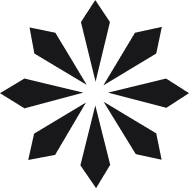
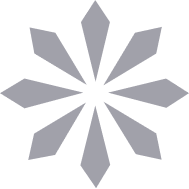
feat: Adding Dark Mode

diff --git a/src/app/assets/components/Header/index.tsx b/src/app/assets/components/Header/index.tsx
@@ -9,9 +9,11 @@ import Link from "next/link";
 export function Header() {
 
   return (
-    <div className="bg-white flex justify-center items-center px-8 border-b-2 border-zinc-500 shadow-sm w-screen">
+    <div className="flex w-screen items-center justify-center border-b-2 border-zinc-500 bg-white px-8 shadow-sm dark:bg-zinc-900 dark:text-zinc-200">
       <div></div>
-      <Link href="/"><Logo /></Link>
+      <Link href="/">
+        <Logo />
+      </Link>
       <Dialog.Root>
         <Dialog.Trigger asChild>
           <div className="absolute right-4">
@@ -21,23 +23,43 @@ export function Header() {
           </div>
         </Dialog.Trigger>
         <Dialog.Portal>
-          <Dialog.Overlay className="bg-zinc-900/40 data-[state=open]:animate-overlayShow fixed inset-0">
-            <Dialog.Content className="data-[state=open]:animate-contentShow fixed top-1/2 left-1/2 -translate-x-1/2 -translate-y-1/2 w-3/4 bg-zinc-200 border border-zinc-900 p-4  rounded-lg">
-              <Dialog.Title className="p-2">Selecione para onde quer ir: </Dialog.Title>
+          <Dialog.Overlay className="data-[state=open]:animate-overlayShow fixed inset-0 bg-zinc-900/40 dark:bg-zinc-100/5">
+            <Dialog.Content className="data-[state=open]:animate-contentShow fixed left-1/2 top-1/2 w-3/4 -translate-x-1/2 -translate-y-1/2 rounded-lg border border-zinc-900 bg-zinc-200 p-4 dark:border-zinc-200 dark:bg-zinc-800 dark:text-zinc-200">
+              <Dialog.Title className="p-2">
+                Selecione para onde quer ir:{" "}
+              </Dialog.Title>
               <Division />
-              <div className="flex flex-col mt-1">
+              <div className="mt-1 flex flex-col">
                 <Dialog.Close asChild>
-                  <Link href="/" className="p-2 hover:bg-zinc-400/20 rounded-lg">Home</Link>
+                  <Link
+                    href="/"
+                    className="rounded-lg p-2 hover:bg-zinc-400/20"
+                  >
+                    Home
+                  </Link>
                 </Dialog.Close>
                 <Dialog.Close asChild>
-                  <Link href="/Portfolio" className="p-2 hover:bg-zinc-400/20 rounded-lg">Portfolio</Link>
+                  <Link
+                    href="/Portfolio"
+                    className="rounded-lg p-2 hover:bg-zinc-400/20"
+                  >
+                    Portfolio
+                  </Link>
                 </Dialog.Close>
                 <Dialog.Close asChild>
-                  <Link href="/Blog" className="p-2 hover:bg-zinc-400/20 rounded-lg">Blog</Link>
+                  <Link
+                    href="/Blog"
+                    className="rounded-lg p-2 hover:bg-zinc-400/20"
+                  >
+                    Blog
+                  </Link>
                 </Dialog.Close>
               </div>
               <Dialog.Close asChild>
-                <button className="text-zinc-500 absolute top-3 right-3 inline-flex h-6 w-6 items-center justify-center rounded-full" aria-label="Close">
+                <button
+                  className="absolute right-3 top-3 inline-flex h-6 w-6 items-center justify-center rounded-full text-zinc-500"
+                  aria-label="Close"
+                >
                   X
                 </button>
               </Dialog.Close>

diff --git a/src/app/assets/components/Button/Icon-Button.tsx b/src/app/assets/components/Button/Icon-Button.tsx
@@ -4,17 +4,20 @@ import { ComponentProps, ReactNode } from 'react'
 
 const buttonSlots = tv({
   slots: {
-    button: "flex items-center justify-center rounded-full group bg-none w-10 h-10 border-2",
+    button:
+      "flex items-center justify-center rounded-full group bg-none w-10 h-10 border-2",
     icon: "flex items-center justify-center rounded-full p-1",
     subtitleText: "font-rajdhani font-medium",
   },
 
-  variants:{
+  variants: {
     variant: {
       normal: {
-        button: "border-zinc-400 group-hover:border-zinc-500 text-zinc-600 group-hover:text-zinc-200 group-data-[state=active]:border-blue-550 group-data-[state=active]:group-hover:border-blue-400 group-data-[state=active]:text-zinc-200",
-        icon: "bg-zinc-400 group-hover:bg-zinc-500 data-[state=active]:text-blue-550 group-data-[state=active]:bg-blue-550 group-data-[state=active]:group-hover:bg-blue-400",
-        subtitleText: "text-zinc-500 group-hover:text-zinc-600 group-data-[state=active]:text-blue-550 group-data-[state=active]:group-hove:text-blue-400",
+        button:
+          "border-zinc-400 group-hover:border-zinc-500 text-zinc-600 group-hover:text-zinc-200 group-data-[state=active]:border-blue-550 group-data-[state=active]:group-hover:border-blue-400 group-data-[state=active]:text-zinc-200  dark:border-zinc-200 dark:group-data-[state=active]:border-blue-500 dark:group-data-[state=active]:group-hover:border-blue-400",
+        icon: "bg-zinc-400 group-hover:bg-zinc-500 data-[state=active]:text-blue-550 group-data-[state=active]:bg-blue-550 group-data-[state=active]:group-hover:bg-blue-400 dark:bg-zinc-200 dark:data-[state=active]:text-blue-400 dark:group-data-[state=active]:bg-blue-500 dark:group-data-[state=active]:group-hover:bg-blue-400",
+        subtitleText:
+          "text-zinc-500 group-hover:text-zinc-600 group-data-[state=active]:text-blue-550 group-data-[state=active]:group-hover:text-blue-400 dark:text-zinc-200 dark:group-hover:text-zinc-400 dark:group-data-[state=active]:text-blue-400",
       },
       active: {
         button: "border-blue-550 group-hover:border-blue-400 text-zinc-200 ",
@@ -31,8 +34,8 @@ const buttonSlots = tv({
     defaultVariants: {
       variant: "normal",
     },
-  }
-})
+  },
+});
 
 type ButtonProps = ComponentProps<"button"> & VariantProps<typeof buttonSlots> & {
   children: ReactNode;

diff --git a/src/app/assets/Logo.tsx b/src/app/assets/Logo.tsx
@@ -6,11 +6,9 @@ export function Logo() {
       viewBox="0 0 56 56"
       fill="none"
       xmlns="http://www.w3.org/2000/svg"
+      className="fill-zinc-400 dark:fill-zinc-200"
     >
-      <path
-        d="M16.406 10.35L8.755 8.768l1.42 7.762 15.538 9.346-9.307-15.524zM28.237.608l-4.26 6.574 4.338 17.743 4.26-17.743L28.237.608zM47.955 8.608l-7.966 1.743-9.386 15.683 15.696-9.505 1.656-7.92zM32.023 28.172l17.194-4.198L56 28.331l-6.704 4.356-17.273-4.514zM30.682 30.866l9.543 15.603 7.651 1.664L46.3 40.29l-15.617-9.425zM28.237 31.974L23.82 49.796l4.653 6.812 4.18-6.97-4.416-17.663zM25.476 31.103l-15.38 9.267-1.735 7.842 7.966-1.505 9.15-15.604zM24.687 28.172l-17.43-4.198L0 28.331l7.256 4.515 17.431-4.673z"
-        fill="#A1A1AA"
-      />
+      <path d="M16.406 10.35L8.755 8.768l1.42 7.762 15.538 9.346-9.307-15.524zM28.237.608l-4.26 6.574 4.338 17.743 4.26-17.743L28.237.608zM47.955 8.608l-7.966 1.743-9.386 15.683 15.696-9.505 1.656-7.92zM32.023 28.172l17.194-4.198L56 28.331l-6.704 4.356-17.273-4.514zM30.682 30.866l9.543 15.603 7.651 1.664L46.3 40.29l-15.617-9.425zM28.237 31.974L23.82 49.796l4.653 6.812 4.18-6.97-4.416-17.663zM25.476 31.103l-15.38 9.267-1.735 7.842 7.966-1.505 9.15-15.604zM24.687 28.172l-17.43-4.198L0 28.331l7.256 4.515 17.431-4.673z" />
     </svg>
   );
 }

diff --git a/src/app/assets/components/Button/Text-Button.tsx b/src/app/assets/components/Button/Text-Button.tsx
@@ -5,10 +5,10 @@ const buttonSlots = tv({
   base: "flex rounded-full border-2 p-1.5 gap-2 basis-20 grow justify-center",
   variants: {
     color: {
-      zinc: "border-zinc-500 text-zinc-500 hover:bg-zinc-500 hover:text-zinc-200",
-      pink: "border-pink-650  text-pink-650 hover:bg-pink-500 hover:text-zinc-200",
+      zinc: "border-zinc-500 text-zinc-500 hover:bg-zinc-500 hover:text-zinc-200 dark:border-zinc-400 dark:text-zinc-400 dark:hover:border-zinc-200 dark:hover:text-zinc-600 dark:hover:bg-zinc-200",
+      pink: "border-pink-650  text-pink-650 hover:bg-pink-500 hover:text-zinc-200 dark:border-pink-500 dark:text-pink-500 dark:hover:bg-pink-500",
       blue: "border-blue-550 text-blue-550 hover:bg-blue-550 hover:text-zinc-200",
-      dark: "border-zinc-900 hover:bg-zinc-900 hover:text-zinc-200",
+      dark: "border-zinc-900 hover:bg-zinc-900 hover:text-zinc-200 dark:border-zinc-200 dark:hover:bg-zinc-200 dark:hover:text-zinc-900",
     },
   },
   defaultVariants: {

diff --git a/src/app/page.tsx b/src/app/page.tsx
@@ -114,7 +114,7 @@ export default function Home() {
               );
             })}
           </Tabs.List>
-          <div className="w-screen gap-8 bg-zinc-400 px-8 py-1">
+          <div className="w-screen gap-8 bg-zinc-400 px-8 py-1 dark:bg-zinc-900">
             {Knowledge.map((item) => {
               return (
                 <Tabs.Content
@@ -126,7 +126,7 @@ export default function Home() {
                     return (
                       <div
                         key={skill.Name}
-                        className="my-1 flex w-32 cursor-pointer flex-row items-center gap-2 truncate rounded-lg bg-zinc-200/25 p-2"
+                        className="my-1 flex w-32 cursor-pointer flex-row items-center gap-2 truncate rounded-lg bg-zinc-200/25 p-2 dark:bg-zinc-50/25"
                       >
                         <Image
                           width={28}

diff --git a/src/app/layout.tsx b/src/app/layout.tsx
@@ -33,9 +33,11 @@ export default function RootLayout({
   return (
     <html lang="pt-br">
       <body>
-        <div className="grid grid-rows-app w-screen h-screen text-zinc-500 antialiased font-roboto font-normal">
+        <div className="grid h-screen w-screen grid-rows-app font-roboto font-normal text-zinc-500 antialiased dark:text-zinc-200">
           <Header />
-          <main className="bg-zinc-100 px-8 pt-4 w-screen">{children}</main>
+          <main className="w-screen bg-zinc-100 px-8 pt-4 dark:bg-zinc-800">
+            {children}
+          </main>
           <Footer />
         </div>
       </body>

diff --git a/src/app/Blog/page.tsx b/src/app/Blog/page.tsx
@@ -19,8 +19,8 @@ export default function Blog() {
           );
         })}
       </div>
-      <div className="relative mb-4 cursor-pointer rounded-t-lg bg-zinc-50 shadow-lg">
-        <span className="absolute left-3 top-4 rounded-full bg-slate-50 px-3 py-1 shadow-md">
+      <div className="relative mb-4 cursor-pointer rounded-t-lg bg-zinc-50 shadow-lg dark:bg-zinc-700">
+        <span className="absolute left-3 top-4 rounded-full bg-zinc-50 px-3 py-1 shadow-md dark:bg-zinc-700">
           Filmes e Séries
         </span>
         <img

diff --git a/src/app/Blog/[id]/page.tsx b/src/app/Blog/[id]/page.tsx
@@ -27,7 +27,7 @@ export default function Post() {
       <div className="absolute left-0 h-96 w-full bg-slate-600" />
 
       <main
-        className={`shadow-top relative -mx-8 mt-4 h-screen rounded-t-2xl bg-white p-4 ${top <= 112 ? "overflow-scroll" : ""} space-y-2`}
+        className={`relative -mx-8 mt-4 h-screen rounded-t-2xl bg-zinc-100 p-4 shadow-top dark:bg-zinc-800 ${top <= 112 ? "overflow-scroll" : ""} space-y-2`}
         style={{ top: `${top}px` }}
       >
         {/* header */}

diff --git a/src/app/assets/components/Category.tsx b/src/app/assets/components/Category.tsx
@@ -8,7 +8,7 @@ interface CategoryProps {
 
 export function Category({ children, name }: CategoryProps) {
   return (
-    <div className="flex min-h-20 w-full grow basis-32 flex-col items-center rounded-lg bg-slate-500/20 p-4 shadow-lg">
+    <div className="flex min-h-20 w-full grow basis-32 flex-col items-center rounded-lg bg-zinc-500/20 p-4 shadow-lg">
       {children}
       <span>{name}</span>
     </div>

diff --git a/src/app/assets/components/RepositoryShower/RepositoryShower.tsx b/src/app/assets/components/RepositoryShower/RepositoryShower.tsx
@@ -20,7 +20,7 @@ export function RepositoryShower({title, description, tech}: RepositoryShowerPro
           <Tags>{tech}</Tags>
 
           <a
-            className="rounded-full border-2 border-zinc-500 p-1.5"
+            className="rounded-full border-2 border-zinc-500 p-1.5 dark:border-zinc-200"
             href={`https://github.com/Ndrake337/${title}`}
             target="_blank"
           >

diff --git a/src/app/assets/components/Footer/index.tsx b/src/app/assets/components/Footer/index.tsx
@@ -2,7 +2,7 @@ import { Logo } from "@/app/assets/Logo";
 
 export function Footer() {
   return (
-    <footer className="bg-white px-8 flex items-center justify-between border-t-2 border-zinc-500">
+    <footer className="flex items-center justify-between border-t-2 border-zinc-500 bg-white px-8 dark:bg-zinc-900">
       <Logo />
     </footer>
   );

diff --git a/src/app/assets/components/Division.tsx b/src/app/assets/components/Division.tsx
@@ -1,3 +1,5 @@
 export function Division() {
-  return <div className="w-full h-0.5 rounded-full bg-zinc-500 " />;
+  return (
+    <div className="h-0.5 w-full rounded-full bg-zinc-500 dark:bg-zinc-300" />
+  );
 }
